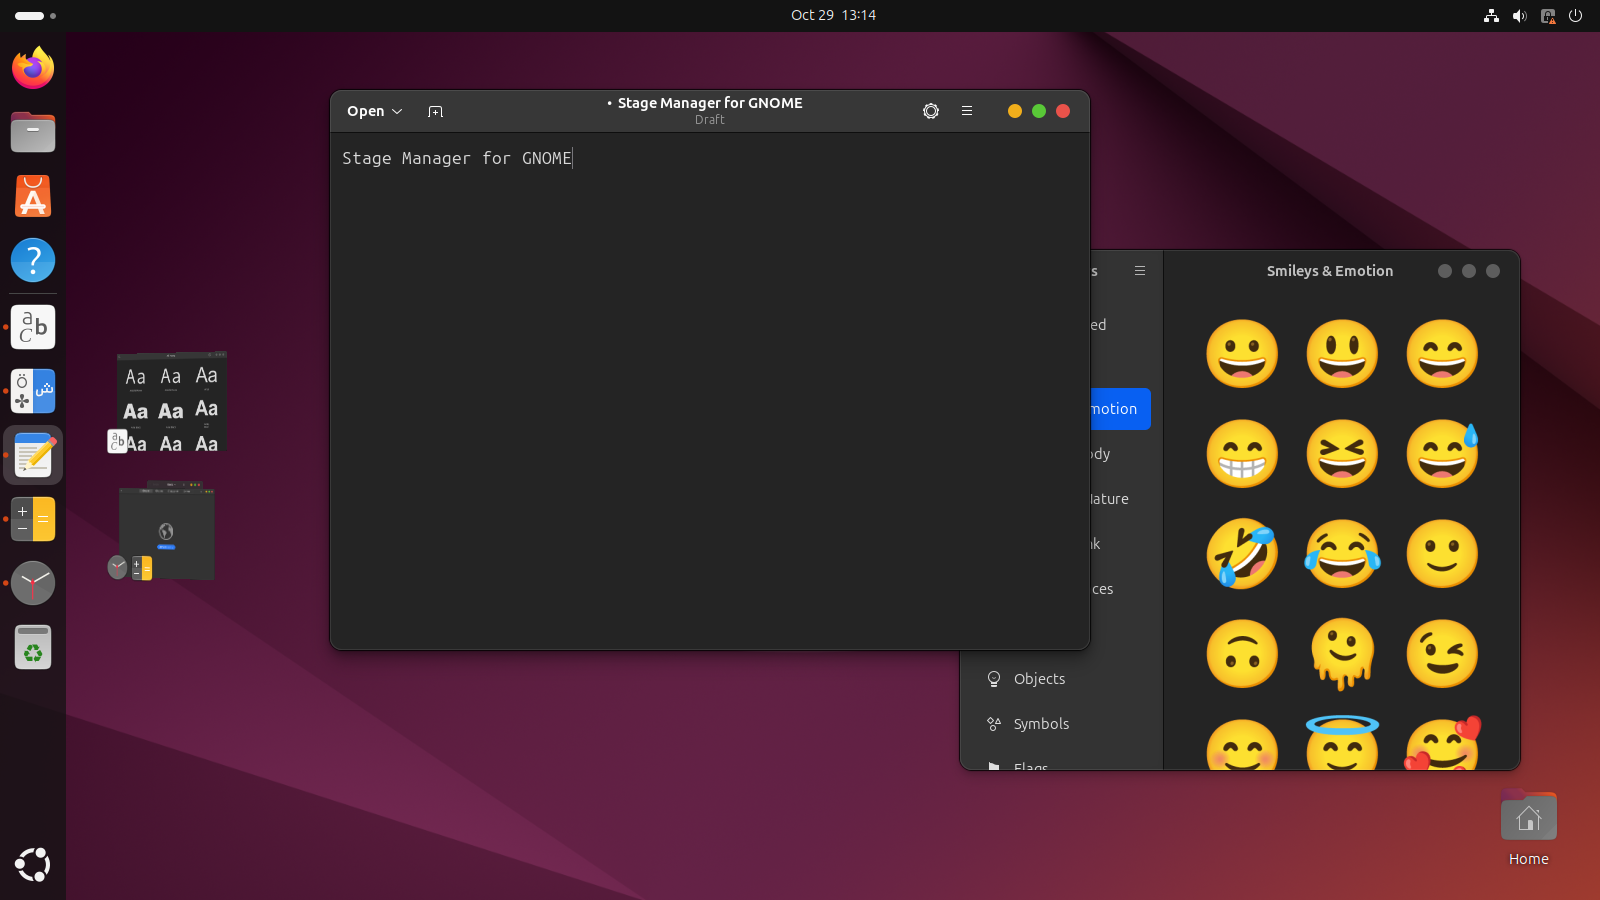
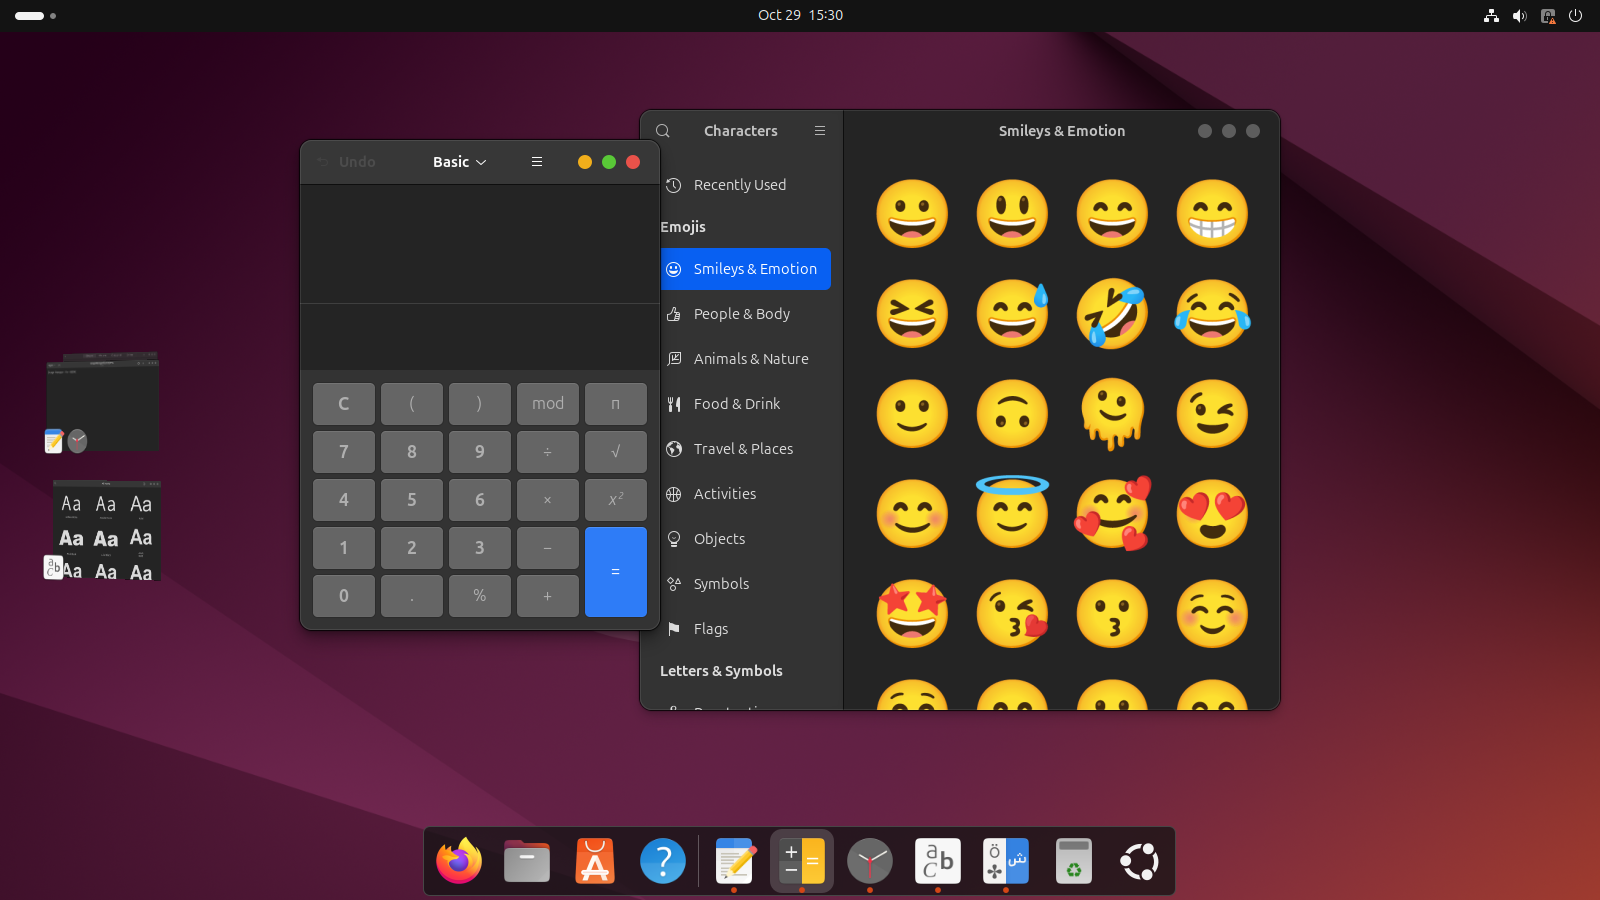
Refresh demo GIF and screenshot with the dock at the bottom
The demo now also shows moving a window to another stage mid-drag:
dragging Text Editor by its title bar over the Clocks thumbnail brings
that stage up, and the window is dropped into it.

diff --git a/README.md b/README.md
@@ -13,9 +13,9 @@
 A GNOME Shell extension that brings macOS-style **Stage Manager** to the Linux desktop.
 The window group you are working with stays in the middle of the screen. Every other group is parked as a live thumbnail in a strip on the left edge, one click away.
 
-![Stage Manager demo: switching stages, grouping by drag and drop, Alt+Tab](media/demo.gif)
+![Stage Manager demo: switching stages, grouping by drag and drop, moving a window to another stage mid-drag, Alt+Tab](media/demo.gif)
 
-*Click a thumbnail to switch stages, drag one onto the stage to group it, and Alt+Tab brings the whole group back.*
+*Click a thumbnail to switch stages, drag one onto the stage to group it, drag a window over a thumbnail to switch stages and drop it there, and Alt+Tab brings a whole group back.*
 
 ## Features
 
@@ -48,7 +48,7 @@ The window group you are working with stays in the middle of the screen. Every o
 
 A window you opened from the app that is on stage (for example with Ctrl+N) joins the stage. A window from any other app starts a group of its own. When Stage Manager is first turned on, the windows of each app start out in one group, like the "All at Once" default on macOS.
 
-![Text Editor and Characters share the stage; Fonts and a Clocks + Calculator group are parked on the left](media/screenshot.png)
+![Calculator and Characters share the stage; a Text Editor + Clocks group and Fonts are parked on the left](media/screenshot.png)
 
 ## Requirements
 
